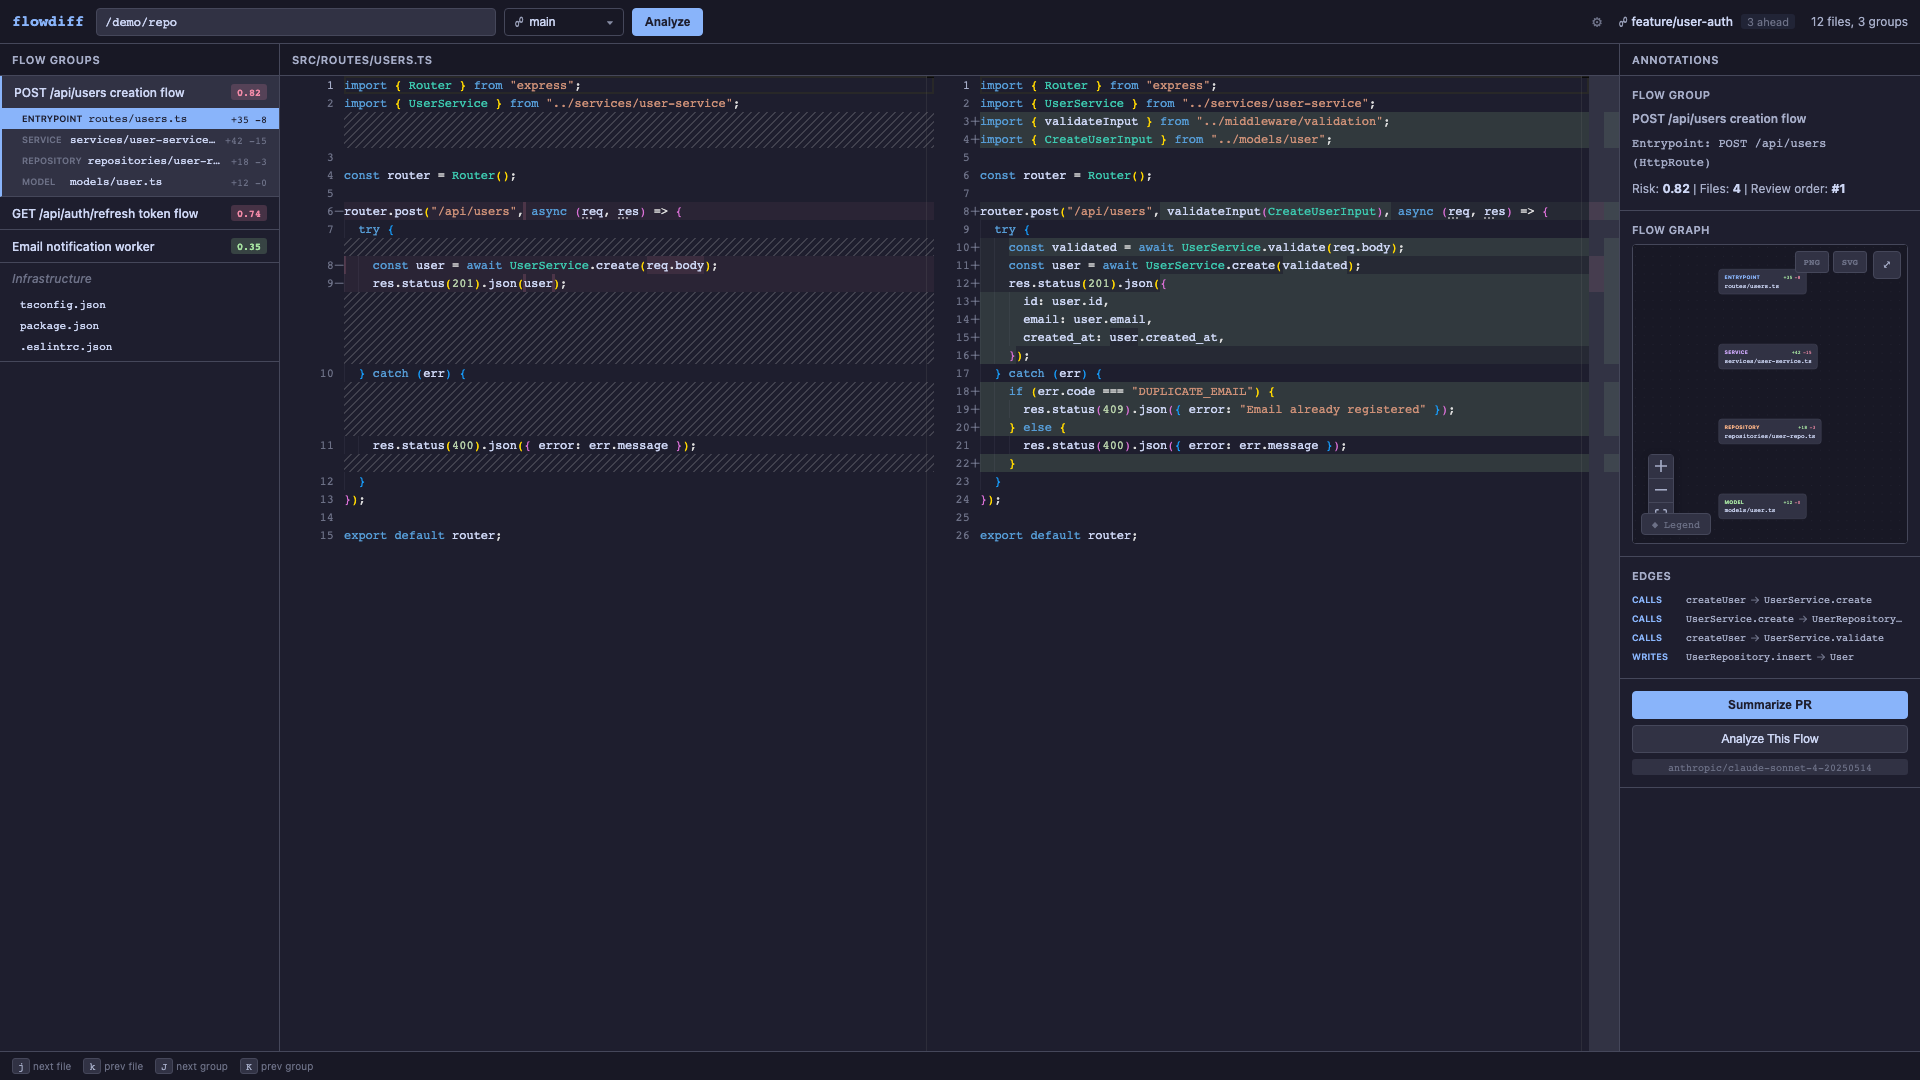
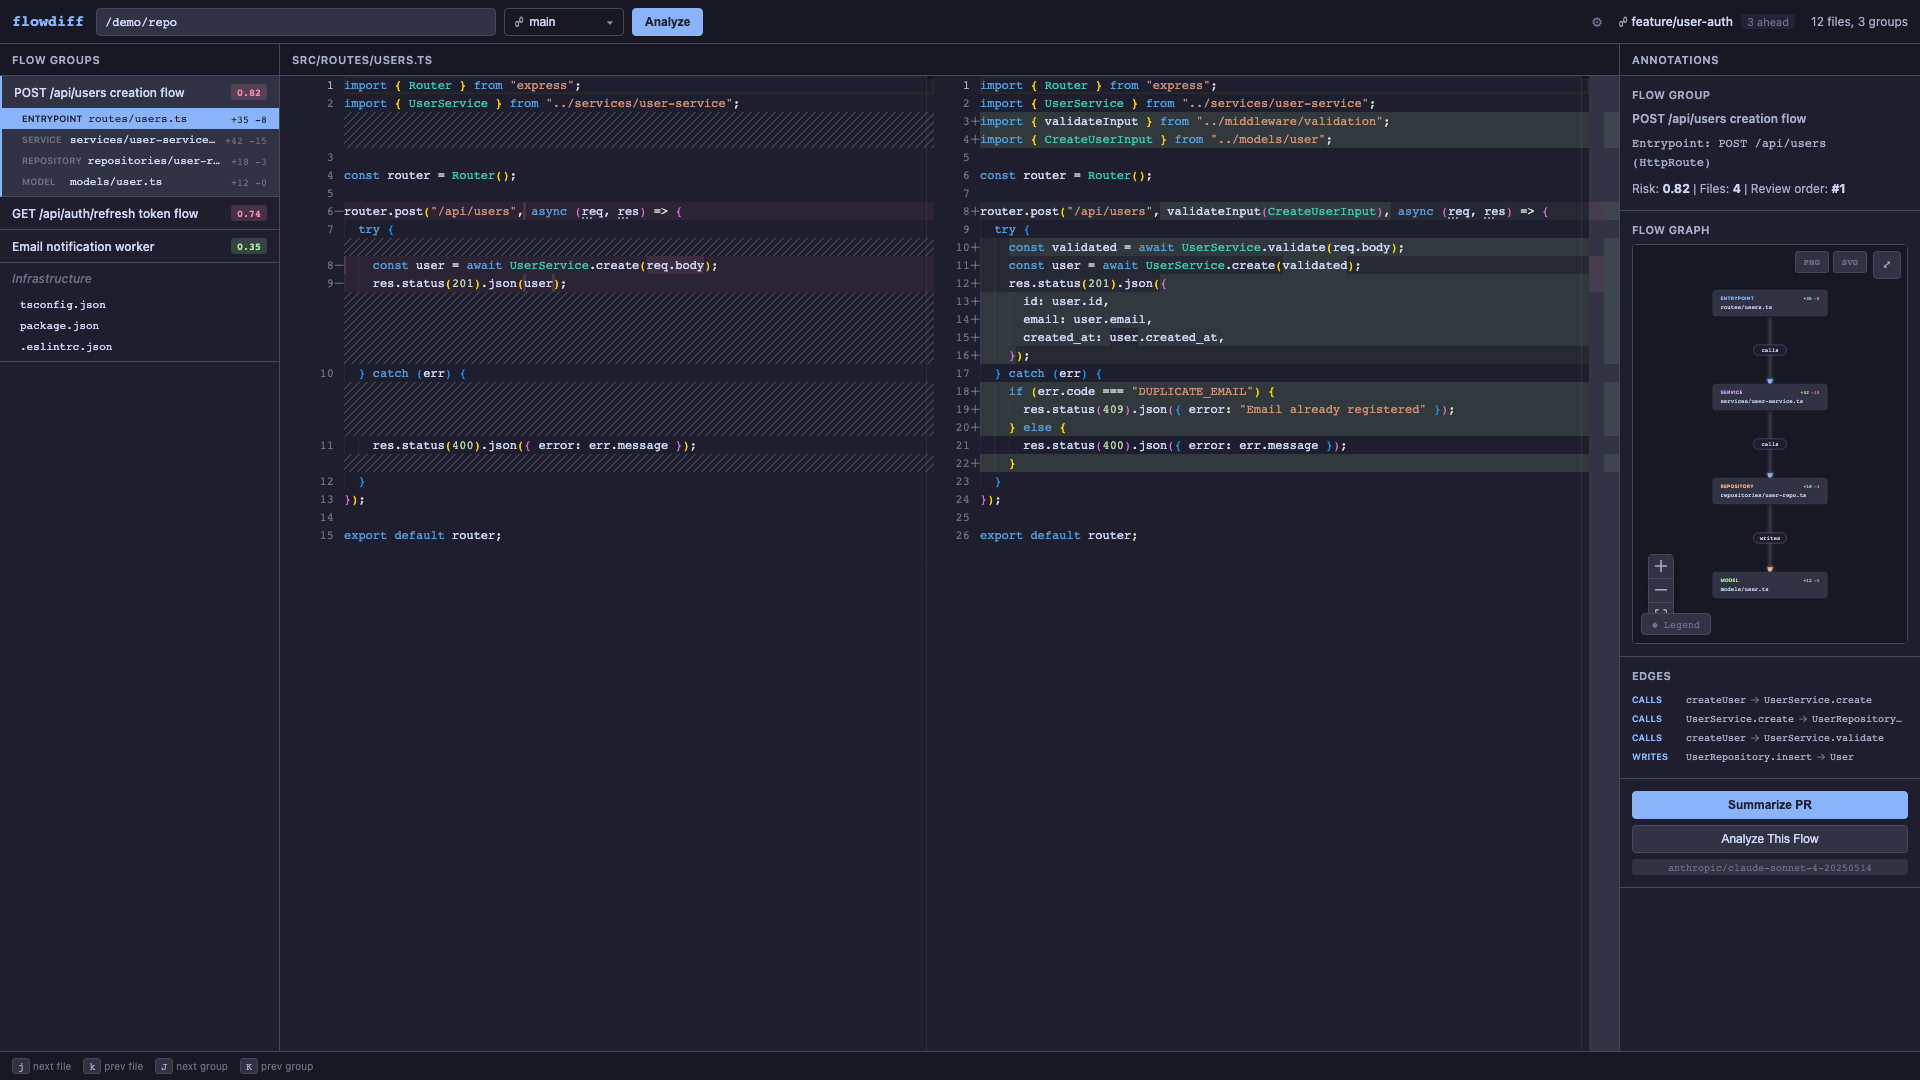
Fix React Flow graph visibility — add Handle components and visual improvements (Phase 3)
Root cause: custom FlowNode was missing <Handle> components, so React Flow
had no edge attachment points and edges were invisible. Added target/source
handles, thicker edges (3px), larger arrowheads (24px), pill-badge labels,
node width 220px, edge glow, adaptive spacing for small graphs, and more
fitView padding. All 50 Playwright + 1,092 Rust tests pass.

Changed region(s): [[0.8438, 0.2444, 1.0, 0.825]]

diff --git a/crates/flowdiff-tauri/ui/src/components/FlowGraph.tsx b/crates/flowdiff-tauri/ui/src/components/FlowGraph.tsx
@@ -4,6 +4,7 @@ import {
   Background,
   MiniMap,
   Controls,
+  Handle,
   type Node,
   type Edge,
   type NodeMouseHandler,
@@ -101,11 +102,14 @@ function layoutGraph(
 ): { nodes: Node[]; edges: Edge[] } {
   const g = new dagre.graphlib.Graph();
   g.setDefaultEdgeLabel(() => ({}));
-  // (5) Better node spacing — increased ranksep and nodesep
-  g.setGraph({ rankdir: "TB", ranksep: 80, nodesep: 60, marginx: 30, marginy: 30 });
+  // Adaptive spacing — more room for small graphs so edges are clearly visible
+  const isSmallGraph = nodes.length >= 2 && nodes.length <= 6;
+  const ranksep = isSmallGraph ? 120 : 80;
+  const nodesep = isSmallGraph ? 80 : 60;
+  g.setGraph({ rankdir: "TB", ranksep, nodesep, marginx: 30, marginy: 30 });
 
-  const nodeWidth = 200;
-  const nodeHeight = 56;
+  const nodeWidth = 220;
+  const nodeHeight = 60;
 
   for (const node of nodes) {
     g.setNode(node.id, { width: nodeWidth, height: nodeHeight });
@@ -185,12 +189,12 @@ function buildGraph(
         hoverDetail,
         dimmed: false,
       },
-      style: { stroke: color, strokeWidth: 2 },
+      style: { stroke: color, strokeWidth: 3 },
       markerEnd: {
         type: MarkerType.ArrowClosed,
         color,
-        width: 16,
-        height: 16,
+        width: 24,
+        height: 24,
       },
     };
   });
@@ -240,39 +244,40 @@ function AnimatedBezierEdge({
         d={edgePath}
         fill="none"
         stroke={color}
-        strokeWidth={dimmed ? 1 : 2}
+        strokeWidth={dimmed ? 1 : 3}
         opacity={opacity}
         markerEnd={markerEnd as string}
         className="react-flow__edge-path"
       />
 
-      {/* (1) Flowing dot animation along edge showing data direction */}
+      {/* Flowing dot animation along edge showing data direction */}
       {!dimmed && (
-        <circle r={3} fill={color} opacity={0.8}>
+        <circle r={4} fill={color} opacity={0.9}>
           <animateMotion dur="2.5s" repeatCount="indefinite" path={edgePath} />
         </circle>
       )}
 
-      {/* Edge label — always visible, enhanced on hover */}
+      {/* Edge label — pill badge always visible on edges */}
       {label && !dimmed && (
         <>
           <rect
-            x={labelX - 28}
-            y={labelY - 9}
-            width={56}
-            height={18}
-            rx={4}
+            x={labelX - 32}
+            y={labelY - 10}
+            width={64}
+            height={20}
+            rx={10}
             fill={hovered ? "#313244" : "#1e1e2e"}
-            fillOpacity={hovered ? 0.95 : 0.8}
-            stroke={hovered ? color : "transparent"}
-            strokeWidth={0.5}
+            fillOpacity={0.95}
+            stroke={color}
+            strokeWidth={hovered ? 1 : 0.5}
           />
           <text
             x={labelX}
             y={labelY + 4}
             textAnchor="middle"
-            fill={hovered ? color : "#a6adc8"}
-            fontSize={10}
+            fill={hovered ? color : "#cdd6f4"}
+            fontSize={11}
+            fontWeight={500}
             fontFamily="'JetBrains Mono', monospace"
           >
             {label}
@@ -322,6 +327,7 @@ function FlowNode({ data }: { data: Record<string, unknown> }) {
 
   return (
     <div className={`flow-node ${isSelected ? "flow-node-selected" : ""}`}>
+      <Handle type="target" position={Position.Top} className="flow-node-handle" />
       <div className="flow-node-header">
         <span className="flow-node-role" style={{ color: roleColor }}>{role}</span>
         <span className="flow-node-changes">
@@ -338,6 +344,7 @@ function FlowNode({ data }: { data: Record<string, unknown> }) {
           <span className="flow-node-del">-{deletions}</span> lines changed
         </div>
       </div>
+      <Handle type="source" position={Position.Bottom} className="flow-node-handle" />
     </div>
   );
 }
@@ -503,7 +510,7 @@ export default function FlowGraph({ edges, files, onNodeClick }: FlowGraphProps)
         onNodeClick={handleNodeClick}
         onPaneClick={handlePaneClick}
         fitView
-        fitViewOptions={{ padding: 0.2, duration: 800 }}
+        fitViewOptions={{ padding: 0.3, duration: 800 }}
         minZoom={0.3}
         maxZoom={2}
         proOptions={{ hideAttribution: true }}

diff --git a/crates/flowdiff-tauri/ui/src/styles.css b/crates/flowdiff-tauri/ui/src/styles.css
@@ -470,7 +470,8 @@ body {
 /* ── Flow Graph (React Flow) ── */
 
 .flow-graph-container {
-  height: 300px;
+  min-height: 400px;
+  height: 400px;
   border-radius: 4px;
   overflow: hidden;
   background: var(--bg-secondary);
@@ -495,8 +496,8 @@ body {
   background: var(--bg-surface);
   border: 1px solid var(--border);
   border-radius: 6px;
-  padding: 8px 10px;
-  min-width: 160px;
+  padding: 10px 14px;
+  min-width: 220px;
   cursor: pointer;
   transition: border-color 0.15s ease, box-shadow 0.15s ease;
   position: relative;
@@ -700,6 +701,19 @@ body {
   font-size: 10px;
   color: var(--text-secondary);
   font-family: var(--font-mono);
+}
+
+/* Hide connection handles — they exist only for edge attachment */
+.flow-node-handle {
+  width: 6px;
+  height: 6px;
+  background: transparent;
+  border: none;
+}
+
+/* Edge glow effect for visibility */
+.flow-graph-container .react-flow__edge-path {
+  filter: drop-shadow(0 0 3px currentColor);
 }
 
 /* React Flow Controls styling */

diff --git a/specs/diff-analyzer.md b/specs/diff-analyzer.md
@@ -635,7 +635,7 @@ flowdiff/
 - [x] Replace Mermaid with React Flow (`@xyflow/react`) — replaced Mermaid with `@xyflow/react` + `@dagrejs/dagre` for production-grade flow graph visualization. Custom `FlowNode` component styled to match Catppuccin theme (dark surface background, role-colored headers). Auto-layout via dagre (top-to-bottom). Smooth animated smoothstep edges with edge labels (calls, imports, writes, etc.). Interactive: click node → selects file in diff viewer, pan/zoom/drag. Minimap for graphs with 6+ nodes. Edge type color coding (Calls=blue, Imports=lavender, Writes=peach, Reads=green, Extends=yellow, Instantiates=sky, Emits=red, Handles=teal). Node badges showing file role and change stats (+/-). Edges deduplicated to file-level with self-edge filtering. Falls back to simple list view if graph has 100+ nodes. Playwright screenshot baselines updated (14 tests pass). Removed mermaid dependency entirely
 - [x] Rename LLM action buttons — "Annotate All Groups" → "Summarize PR" (runs Pass 1 overview), "Deep Analyze Group" → "Analyze This Flow" (runs Pass 2 per-group). Tooltips explain what each does (Pass 1 overview / Pass 2 deep analysis) and that they require an API key. Greyed out with "Requires API key" message and 50% opacity when no key configured. `check_api_key` IPC command added to Tauri backend (checks key_cmd, FLOWDIFF_API_KEY, provider-specific env vars via `resolve_api_key`). CSS classes renamed: `.btn-annotate` → `.btn-summarize`, `.btn-deep` → `.btn-analyze-flow`, `.no-api-key` style added. 2 new Tauri unit tests (check_api_key with no repo, invalid path). All 1,083 tests pass
 - [x] React Flow polish — 9 improvements to the flow graph visualization: (1) Animated bezier edges with flowing dot animation showing data direction via `getBezierPath` + SVG `<animateMotion>`, custom `AnimatedBezierEdge` edge type replacing smoothstep. (2) Edge labels enhanced on hover — label rect highlights with edge color, hover tooltip shows full from→to file paths below the label. (3) Node hover effect — increased glow/border highlight (12px spread), selected node state with 16px glow, CSS tooltip below node showing full file path + change summary. (4) Fullscreen mode — maximize button (top-right corner `⤢` icon), `position: fixed; inset: 0; z-index: 1000` fills entire viewport, Escape key exits fullscreen via `useEffect` keyboard listener. (5) Better node spacing — dagre `ranksep: 60→80`, `nodesep: 40→60`, `marginx/y: 20→30` for less cramped layout. (6) Edge dimming — when a node is clicked, non-connected edges get `dimmed: true` (opacity 0.15, strokeWidth 1, no animation dot), connected edges stay full brightness. Click pane to clear selection via `onPaneClick`. (7) Smooth zoom transitions — `fitViewOptions.duration: 800` for smooth initial fit, React Flow Controls component added for zoom in/out/fit buttons. (8) Legend overlay — collapsible panel (bottom-left) showing all 8 edge types with color-coded lines (calls=blue, imports=lavender, writes=peach, reads=green, extends=yellow, new=sky, emits=red, handles=teal). (9) Export graph as PNG/SVG — `html-to-image` dependency added, two buttons (top-right) export the graph container at 2x pixel ratio for PNG. All themed to Catppuccin dark palette. Playwright E2E test fix: `.base-input` assertion updated to `.branch-dropdown-trigger .branch-name` for branch dropdown compatibility. All 14 Playwright tests pass, all Rust tests pass
-- [ ] React Flow graph visibility fix — the graph currently looks like disconnected boxes with no visible connections. Fix: (1) Increase graph container min-height to 400px (currently too cramped in the right panel), (2) Make edge lines thicker (strokeWidth 3) and brighter (full opacity, not faded), (3) Add visible arrow heads that are large enough to see at the default zoom level, (4) Show edge type labels directly on the edges by default (not just on hover) — use a pill badge on the edge midpoint, (5) Increase node size to at least 220px wide with padding so text isn't cramped, (6) Add a subtle gradient or glow along edge paths so they stand out against the dark background, (7) When graph has 3-6 nodes use a larger `ranksep: 120` and `nodesep: 80` so the flow is clearly visible even in the small panel, (8) Default to fitView with more padding (0.3) so edges aren't clipped at container boundaries, (9) Take new Playwright screenshots and visually verify that edges are clearly visible connecting the nodes — if they're not visible, keep iterating until they are
+- [x] React Flow graph visibility fix — root cause: custom `FlowNode` component was missing `<Handle>` components, so React Flow had no attachment points for edges. Fix: (1) Added `<Handle type="target" position={Position.Top}>` and `<Handle type="source" position={Position.Bottom}>` to FlowNode with invisible styling (`.flow-node-handle`), (2) Increased graph container height 300px→400px, (3) Edge strokeWidth 2→3 with larger arrowheads (16px→24px), (4) Edge labels now always-visible pill badges with rounded corners (`rx=10`), edge-color border stroke, brighter text (#cdd6f4), larger font (11px), (5) Node min-width 160px→220px with more padding (8px 10px→10px 14px), (6) CSS `drop-shadow(0 0 3px currentColor)` on `.react-flow__edge-path` for edge glow, (7) Adaptive dagre spacing: ranksep 120/nodesep 80 for 2-6 node graphs, 80/60 for larger, (8) fitView padding 0.2→0.3, (9) Flowing dot radius 3→4 with 0.9 opacity, dagre nodeWidth 200→220/nodeHeight 56→60. All 50 Playwright tests pass, all 1,092 Rust tests pass. Updated screenshots visually verified — edges clearly visible with labels, arrows, and animated dots connecting all nodes
 - [x] Git auto-discovery in Tauri — on app launch or when repo path is entered: auto-detect current branch, list all local branches in a dropdown (replace text input), list git worktrees if any exist, show push status ("3 ahead of origin/main, 0 behind"). Default diff mode is PR preview (`main...HEAD`). User can change base branch via dropdown. IPC commands: `list_branches`, `list_worktrees`, `get_branch_status`, `get_repo_info`. Uses git2 for all operations. Rust: `git.rs` adds `BranchInfo`/`WorktreeInfo`/`BranchStatus` types, `list_branches()`/`list_worktrees()`/`get_branch_status()`/`detect_default_branch()`/`diff_merge_base()`/`current_branch()` functions. `commands.rs` adds 4 IPC commands + `RepoInfo` aggregate type + `open_repo()` helper. Frontend: branch dropdown replaces base ref text input, repo status bar shows current branch + ahead/behind + worktree count, `RepoInfo`/`BranchInfo`/`WorktreeInfo`/`BranchStatus` TypeScript types. 20 new git unit tests (branch listing, sorting, worktree listing, branch status, default branch detection, merge-base diff basic/diverged/same-commit/invalid, current branch, serde roundtrips for all 3 new types), 2 new command tests (RepoInfo serde). All 1081 tests pass
 - [x] PR preview diff mode — implement merge-base diff in git layer (`git2::Repository::merge_base()` → diff from ancestor to HEAD). Default when no flags given. `diff_merge_base()` in `git.rs` finds merge base between two refs, diffs from ancestor to head. `detect_default_branch()` auto-detects main/master/develop. Tauri `analyze` command gains `pr_preview` parameter (default true in UI). `extract_diff()` routes to merge-base when `pr_preview=true`. Frontend sends `prPreview: true` by default. 4 unit tests for merge-base diff (basic, diverged branches, same commit, invalid ref)
 - [x] LLM controls in Tauri UI — settings panel (gear icon in top bar → slide-out panel) with: (1) API key status indicator (green "Configured via [source]" / red "Not configured" with setup instructions), (2) Enable/disable LLM annotations toggle (controls Summarize PR / Analyze This Flow button state), (3) Enable/disable LLM refinement toggle (with collapsible refinement sub-settings), (4) Provider selector dropdown (Anthropic/OpenAI/Gemini), (5) Model selector dropdown (populated per provider: claude-sonnet-4/opus-4/haiku-4.5, gpt-4o/o1/o3-mini/o3, gemini-2.5-pro/flash), (6) Refinement provider/model/max-iterations controls when refinement enabled. Settings persisted to `.flowdiff.toml` via `save_llm_settings` IPC command (preserves non-LLM config sections). `get_llm_settings` IPC command reads config + resolves API key source. `annotate_overview` and `annotate_group` commands accept `llm_provider`/`llm_model` overrides from frontend, load config from repo dir (fixed bug where `FlowdiffConfig::default()` was used instead of repo config). `FlowdiffConfig::save_to_dir()` added for TOML serialization. Catppuccin-styled slide-out panel with Escape-to-close, click-outside-to-close, dark theme selects/toggles. Provider badge shown below annotation buttons. 7 new Tauri tests (LlmSettings serde, default models, get_llm_settings with no repo/invalid path, load_config_from_path). All 1,090 tests pass
